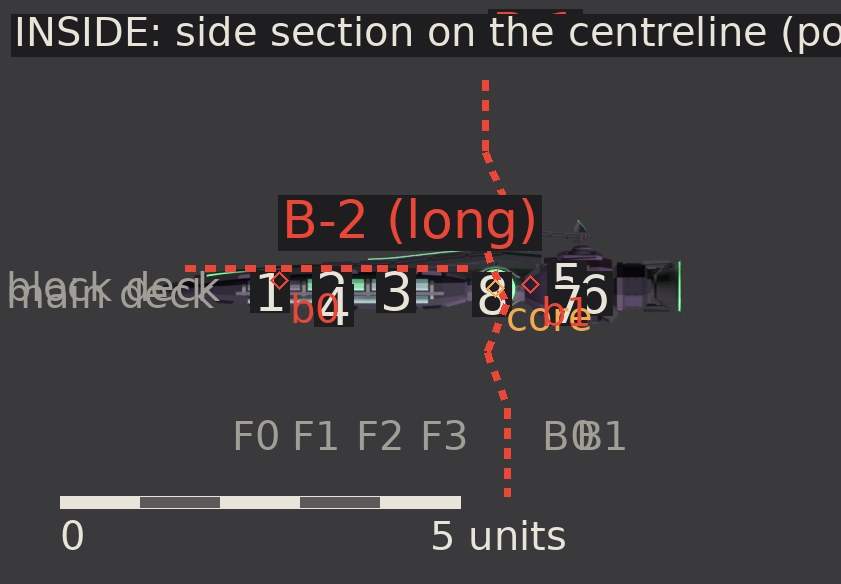
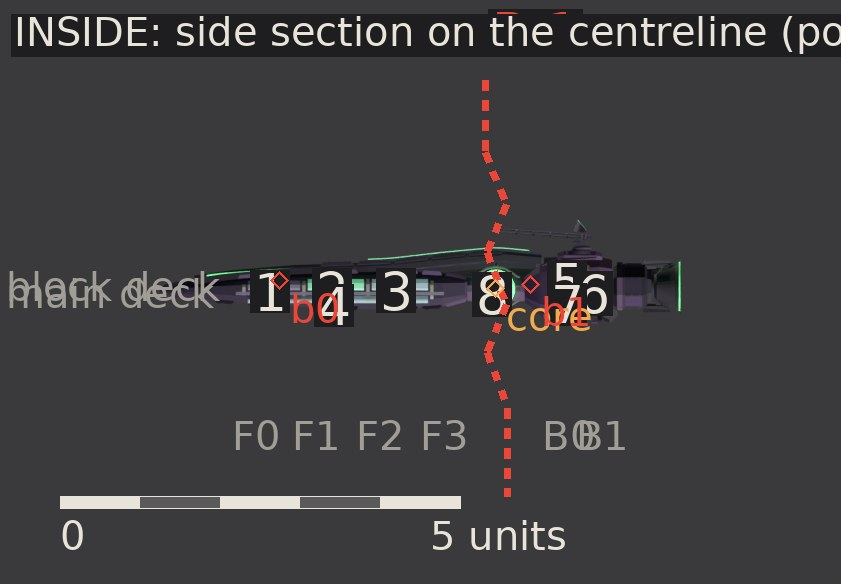
E13: one authored break (the Frigate count), the crest peel plane dropped; README calls
The crest slopes through any single height, so a level peel plane would slice it rather than
lift it, and the class table gives a frigate one authored break line. The READMEs now carry the
rule 12 evidence (openings with depth, shaped flanks) and the guns-over-the-shade design call.

Refs #739

Claude-Session: https://claude.ai/code/session_01TX7Q21s76BEf5gcGTrpJ1G

Changed region(s): [[0.2164, 0.3082, 0.6492, 0.4932]]

diff --git a/tools/blender/build_sheets/ships/deathless_E13.py b/tools/blender/build_sheets/ships/deathless_E13.py
@@ -253,9 +253,7 @@ def build(K):
     K.armour('stern block', 0.12, '')
     K.break_line('B-1', XCORE, 'the dart parts from the stern block at the core: the cage bursts, the nose and the plates\' fore halves tear away (a ragged bite where the core goes)',
                  path=[(-0.82, 2.6), (-0.82, 1.7), (-1.08, 1.05), (-0.84, 0.45), (-1.08, -0.2), (-0.84, -0.8), (-1.1, -1.5), (-1.1, -2.6)])
-    K.break_line('B-2', 1.0, 'the crest plate peels from the dart, band by band, over the fore compartment (a level plane at 0.25)',
-                 path=[(-0.6, 0.25), (0.6, 0.25), (1.8, 0.25), (3.0, 0.25)], kind='long')
-    K.inside.append(dict(kind='note', name='insides', note='Eclipse breaks in layers (factions.md): the crest plate peels first, then the dart parts from the block at the core and the fan\'s fore halves go with it; full interiors throughout (R215), hidden until a piece breaks.'))
+    K.inside.append(dict(kind='note', name='insides', note='Eclipse breaks in layers (factions.md): one authored break for a frigate (factions.md, the class table): the dart parts from the block at the core and the five plates tear across it, their fore halves going with the nose; no level peel plane (the crest slopes through any one height, so a plane would slice it rather than lift it); full interiors throughout (R215), hidden until a piece breaks.'))
     K.point('core', 'hp_core', (XCORE, 0, ZCORE))
     # two breach anchors on the shade plates (Frigate base 2, Eclipse +0): prow 1 (port), eng 1 (starboard)
     def blade_top(nm, side, t):
@@ -279,7 +277,6 @@ def build(K):
     K.change('Engines are eclipse rings, not flame', 'factions.md: "no flaming bells. An eclipse ring of pale light"')
     K.change('Panels dead even, aligned rows on every face, tone in ordered bands (R243)', 'Ryan, Nov 13: "make the eclipse panels actually panels and dead even and ordered to align"; the kit lays them by size (eclipse parts.py even_panels)')
     K.change('Thrusters, belly hatches, heat panels and corona strip lights added', 'a ship in space needs thrusters; the picture shows no underside')
-    K.change('The crest plate peels on a level plane at 0.25 over the fore compartment (B-2)', 'Eclipse breaks in layers: the shade plates peel first (factions.md); one level plane takes the crest and clears the dart\'s insides')
     K.change('The fan slimmed and flattened to the concept sheet\'s measured proportions (envelope length to beam 1.79 against the sheet\'s 1.87; the core 0.64 across)', 'the Board\'s massing check (ships.md 2c): the first layout read 1.38, a third too broad, and twice the sheet\'s height. The side stays taller than the sheet\'s (length to height 5.1 against 9.6) because the gun housing and the engine ring stand above and below the plates; the sheet\'s side view draws the gun as a thin fin')
     K.change('From above the mote is a leaf of blades with a dart nose, widest at a quarter of its length', 'family distinctness (R233): the flagship is a crescent, the cruiser a split oval ring, the flare one closed ring; no Eclipse class is a scaled copy of another from above')
     K.open_item('The underside of the dart and the block is designed here; the picture shows no underside')

diff --git a/docs/ship_pipeline/build_sheets/deathless_E13/README.md b/docs/ship_pipeline/build_sheets/deathless_E13/README.md
@@ -23,6 +23,7 @@ then [side_by_side.jpg](side_by_side.jpg), [fit_view.jpg](fit_view.jpg), [cells.
 | Audit self-test | PASS: every broken copy refused for its own reason |
 | Stage 7 unbaked export and readback (`export7.py unbaked=1`, `check_export.py`, self-test) | PASS: every hard point on the mesh (2 gun muzzles, 1 engine, 2 breach, core, 2 braking, 2 boarding), the breach count is the class and faction's, the turret node and its turning mesh are written; the self-test refuses every broken copy |
 | Density (R224, the mesh half; `studies/mesh_density.py`) | 0 flags; every part kind at or over the hull's triangles and edge features per square unit ([mesh_density.json](mesh_density.json)); the paint half is measured at stage 5 |
+| Rule 12 (R244): openings with depth, shaped flanks | the engine bell has a throat, an inner shade disc and stiffener rings; the thrusters' slot nozzles and the heat panels' slats are recessed; no flat disc anywhere. The dart and the block are chamfered octagon sections, the block carries a stepped roof and the root collar's stepped band; no flat-sided box |
 | Inventory (R218, R221) | 14 lines, all present, shaped and detailed; every part has a job ([inventory.md](inventory.md)) |
 | Manifest (`build_manifest_tests.js`) | PASS |
 
@@ -56,9 +57,10 @@ Draw calls: one per surface, plus one per turret node. The scene gate (RULEBOOK 
 5. **The stern block and engine**: a chamfered block, the root collar where the plates gather, heat slot panels, belly hatches,
    attitude thrusters on its lower chamfers; one eclipse-ring engine, no flame.
 6. **INSIDE**: dark decks, the archive vault and the capacitor bank in the dart, conduits along its keel; the gun's magazine, the
-   phase coils and the engine room in the block. One transverse break (Frigate): B-1, the dart parts from the block at the core;
-   and B-2, the crest plate peels on a level plane over the fore compartment (Eclipse breaks in layers). Two breach anchors on the
-   shade plates (Frigate base 2, Eclipse +0).
+   phase coils and the engine room in the block. One authored break (Frigate, the class table): B-1, the dart parts from the block
+   at the core and the five plates tear across it, their fore halves going with the nose. No level peel plane: the crest slopes
+   through any one height, so a plane would slice it rather than lift it. Two breach anchors on the shade plates (Frigate base 2,
+   Eclipse +0).
 
 ## Changed from the picture (R207, R233, R236), and why
 
@@ -73,6 +75,9 @@ All in [feature_table.md](feature_table.md); the design calls the Board should l
 - **The core on the axis**, under the crest plate; the beauty shows it on one side only.
 - **Panels dead even and aligned** (R243), laid by size by the Eclipse kit (`even_panels`, new in tools/blender/kits/eclipse/parts.py).
 - **From above, a leaf of blades with a dart nose**: no Eclipse class is a scaled copy of another (R233).
+- **The gun fires over the plates, not through a gap behind a shade rim.** factions.md puts Eclipse guns behind the shade's rim
+  firing through gaps; the mote's one gun turns all round (gauss T), so it stands on the block roof at the plates' root and fires
+  over them, as the zenith's guns fire over its ring. The plates still face the enemy edge-on, a shield held forward.
 
 ## What still differs from the concept, and why
 

diff --git a/docs/ship_pipeline/build_sheets/deathless_E14/README.md b/docs/ship_pipeline/build_sheets/deathless_E14/README.md
@@ -33,6 +33,7 @@ flat, and the beauty's twelve plates line up with the build at the fitted camera
 | Audit self-test | PASS |
 | Stage 7 unbaked export and readback (`export7.py unbaked=1`, `check_export.py`, self-test) | PASS: 4 gun muzzles (2 per slot), 1 engine, 3 breach anchors (Destroyer 3, Eclipse +0), core, 2 braking, 2 boarding, both turret nodes with their turning meshes; the self-test refuses every broken copy |
 | Density (R224, the mesh half; `studies/mesh_density.py`) | 0 flags ([mesh_density.json](mesh_density.json)); the paint half is measured at stage 5 |
+| Rule 12 (R244): openings with depth, shaped flanks | the engine bell has a throat, an inner shade disc and stiffener rings; the thrusters' slot nozzles, the heat panels' slats and the drone cradles are recessed or framed; no flat disc anywhere. The gun heart, the spar and the stern block are chamfered octagon sections with stepped roofs and collars; the ring plates are dished with a stepped layer; no flat-sided box |
 | Inventory (R218, R221) | 21 lines, all present, shaped and detailed; every part has a job ([inventory.md](inventory.md)) |
 | Manifest (`build_manifest_tests.js`) | PASS |
 
@@ -82,13 +83,19 @@ All in [feature_table.md](feature_table.md); the design calls the Board should l
 - **The drones are docked** on the hoop, not hovering.
 - **The spar is heavier** than the zenith's rod, as the beauty draws it.
 - **The third breach anchor is on the stern block**, the one Eclipse anchor not on a shade band.
+- **The guns fire over the ring, not through a gap behind a shade rim, and the flat ring faces up, not forward.** factions.md says
+  the shade faces the enemy and the guns fire through gaps behind its rim. A ring upright and facing forward would put both guns
+  behind it, but it reads as a bar from above (the study), which R233 rules out. The flat ring is a sunshade held over the heart,
+  its rim edge-on to the enemy; the forward gun fires over the bow plates and the aft gun over the whole ring, as the zenith's guns
+  fire over its arcs.
+- **The core cage reads as a small drum from straight above** (six curved plates round the core). At the beauty camera its gaps
+  show the core; if the Board wants it rounder or more open from above, it is the one mass to change.
 
 ## What still differs from the concept, and why
 
 - **Surface and colour**: the concept's plates are thick, heavily panelled blocks; the blockout is flat schematic colour (stage 5).
 - **The gun heart**: the beauty draws a long cylinder with a big round muzzle pointing at the viewer; the build's forward gun is
   the faction's rail gun on a turret, and the heart is a drum holding the core.
-- **The core cage** reads as a small drum from straight above; at the beauty camera its gaps show the core.
 
 ## Files
 

diff --git a/docs/ship_pipeline/build_sheets/deathless_E13/feature_table.md b/docs/ship_pipeline/build_sheets/deathless_E13/feature_table.md
@@ -104,9 +104,8 @@ Bulkhead and frame stations: F0 16.1%, F1 27.6%, F2 39.9%, F3 52.2%, B0 75.7%, B
 | Break line | Station % | What it opens |
 |---|---|---|
 | B-1 | 64.5 (seam wanders 62.5 to 66.8) | the dart parts from the stern block at the core: the cage bursts, the nose and the plates' fore halves tear away (a ragged bite where the core goes) |
-| B-2 | 3.8 to 59.1 (along) | the crest plate peels from the dart, band by band, over the fore compartment (a level plane at 0.25) |
 
-Eclipse breaks in layers (factions.md): the crest plate peels first, then the dart parts from the block at the core and the fan's fore halves go with it; full interiors throughout (R215), hidden until a piece breaks.
+Eclipse breaks in layers (factions.md): one authored break for a frigate (factions.md, the class table): the dart parts from the block at the core and the five plates tear across it, their fore halves going with the nose; no level peel plane (the crest slopes through any one height, so a plane would slice it rather than lift it); full interiors throughout (R215), hidden until a piece breaks.
 
 
 ## Hard points (the contract of PR 530, tools/blender/kits/shared/hardpoints.py)
@@ -139,7 +138,6 @@ Written from the concept before modelling; ticked per blob-sweep cell (present, 
 - **Engines are eclipse rings, not flame.** factions.md: "no flaming bells. An eclipse ring of pale light".
 - **Panels dead even, aligned rows on every face, tone in ordered bands (R243).** Ryan, Nov 13: "make the eclipse panels actually panels and dead even and ordered to align"; the kit lays them by size (eclipse parts.py even_panels).
 - **Thrusters, belly hatches, heat panels and corona strip lights added.** a ship in space needs thrusters; the picture shows no underside.
-- **The crest plate peels on a level plane at 0.25 over the fore compartment (B-2).** Eclipse breaks in layers: the shade plates peel first (factions.md); one level plane takes the crest and clears the dart's insides.
 - **The fan slimmed and flattened to the concept sheet's measured proportions (envelope length to beam 1.79 against the sheet's 1.87; the core 0.64 across).** the Board's massing check (ships.md 2c): the first layout read 1.38, a third too broad, and twice the sheet's height. The side stays taller than the sheet's (length to height 5.1 against 9.6) because the gun housing and the engine ring stand above and below the plates; the sheet's side view draws the gun as a thin fin.
 - **From above the mote is a leaf of blades with a dart nose, widest at a quarter of its length.** family distinctness (R233): the flagship is a crescent, the cruiser a split oval ring, the flare one closed ring; no Eclipse class is a scaled copy of another from above.
 
